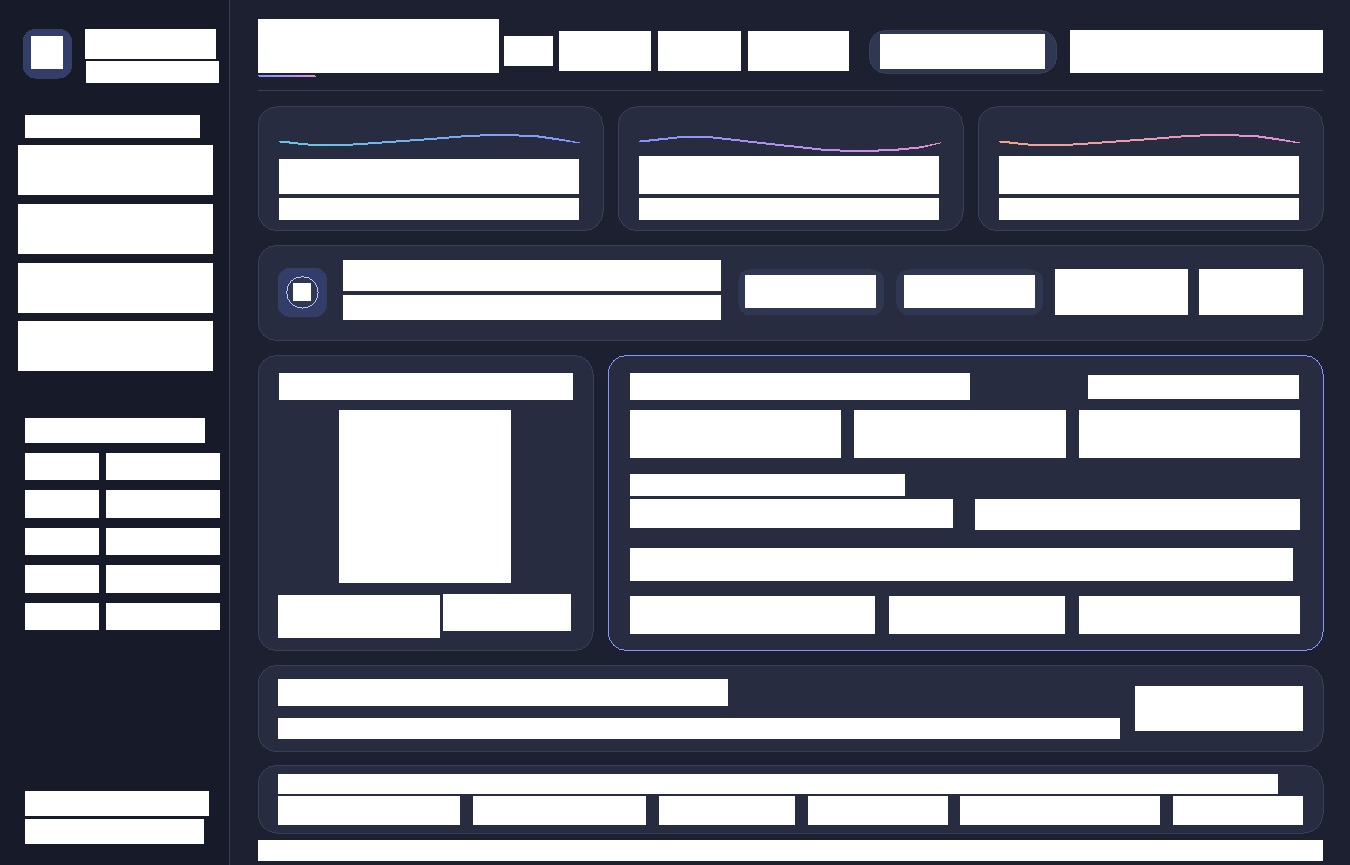
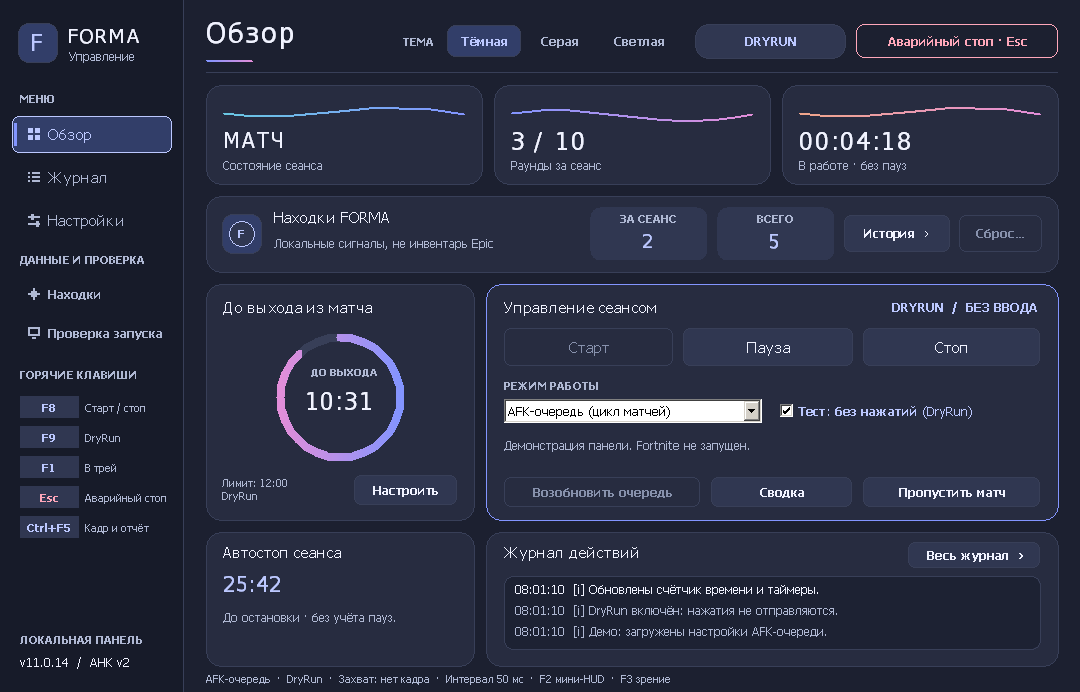
Polish the redesigned panel and show actual demo screens

diff --git a/README.md b/README.md
@@ -36,7 +36,7 @@ Get-FileHash -LiteralPath .\FORMA-v11.0.13-windows-x64.zip -Algorithm SHA256
 
 ![Обзор FORMA в тёмной теме](docs/forma-overview.png)
 
-*Снимок панели v11.0.11 с демонстрационными данными, без запуска Fortnite.*
+*Обзор v11.0.14: демонстрационные данные, Fortnite не запущен. [Снимок настроек и предпросмотра координат](docs/forma-settings.png).*
 
 - **Обзор** — состояние, раунды, активное время, карточки находок, режим и **DryRun**, кнопки сеанса и три последних события. Круговой таймер показывает лимит матча для режимов «Авто-игра» и «AFK-очередь». Отдельная карточка **«Автостоп сеанса»** показывает настроенный лимит активного времени, остаток без учёта пауз или отложенную остановку после матча. `0` отключает соответствующий лимит.
 - **Настройки** — ползунки и числовые поля для лимита матча, задержки в лобби, автостопа и лимита раундов. **«Сохранить таймеры»** применяет эти четыре значения после остановки сеанса. В блоке **«Координаты мыши и экран»** можно выбрать пресет, нажать **«Мой экран»** или ввести размер (например, `1600 × 900`) и нажать **«Рассчитать»**. Предпросмотр трёх точек не меняет `forma.ini` и не посылает ввод. Для редактирования точек, других опций AFK, XP, маршрута, Discord и клавиш открываются прежние диалоги.
